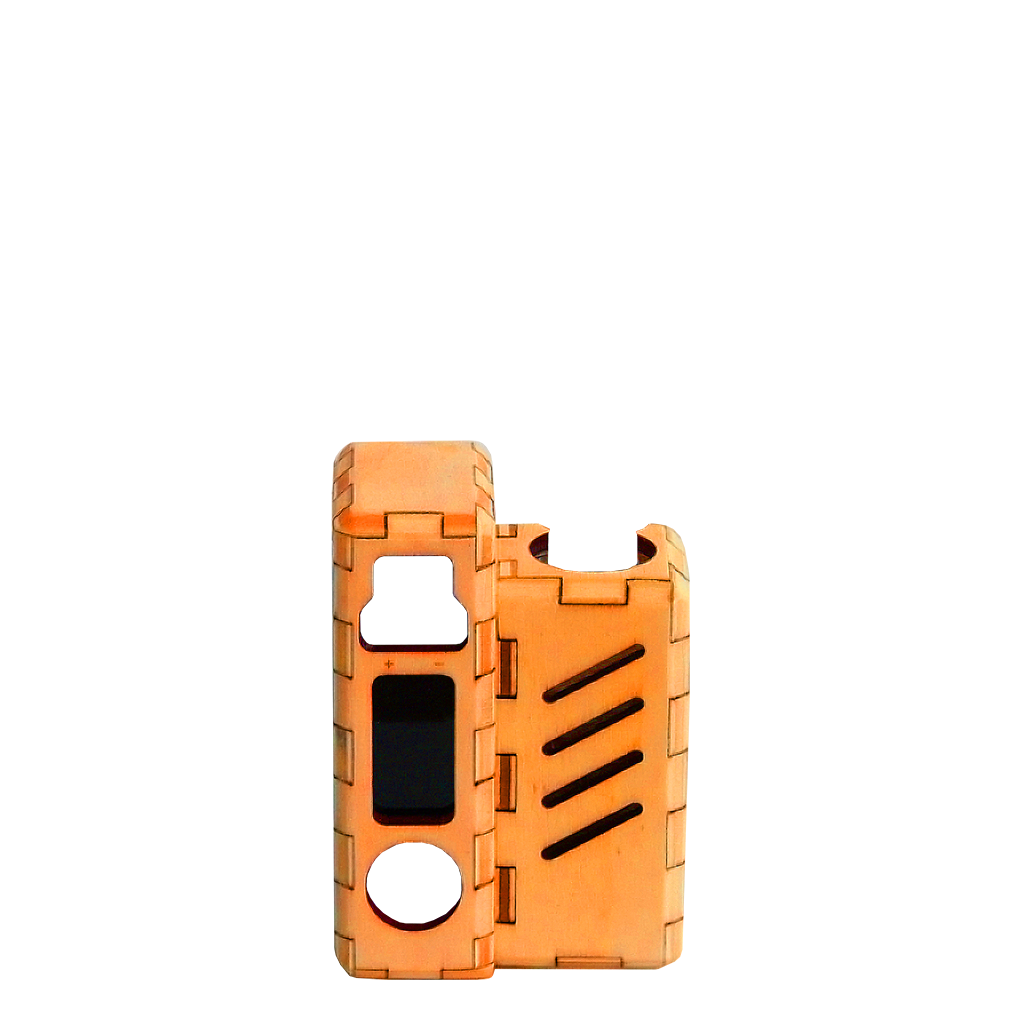
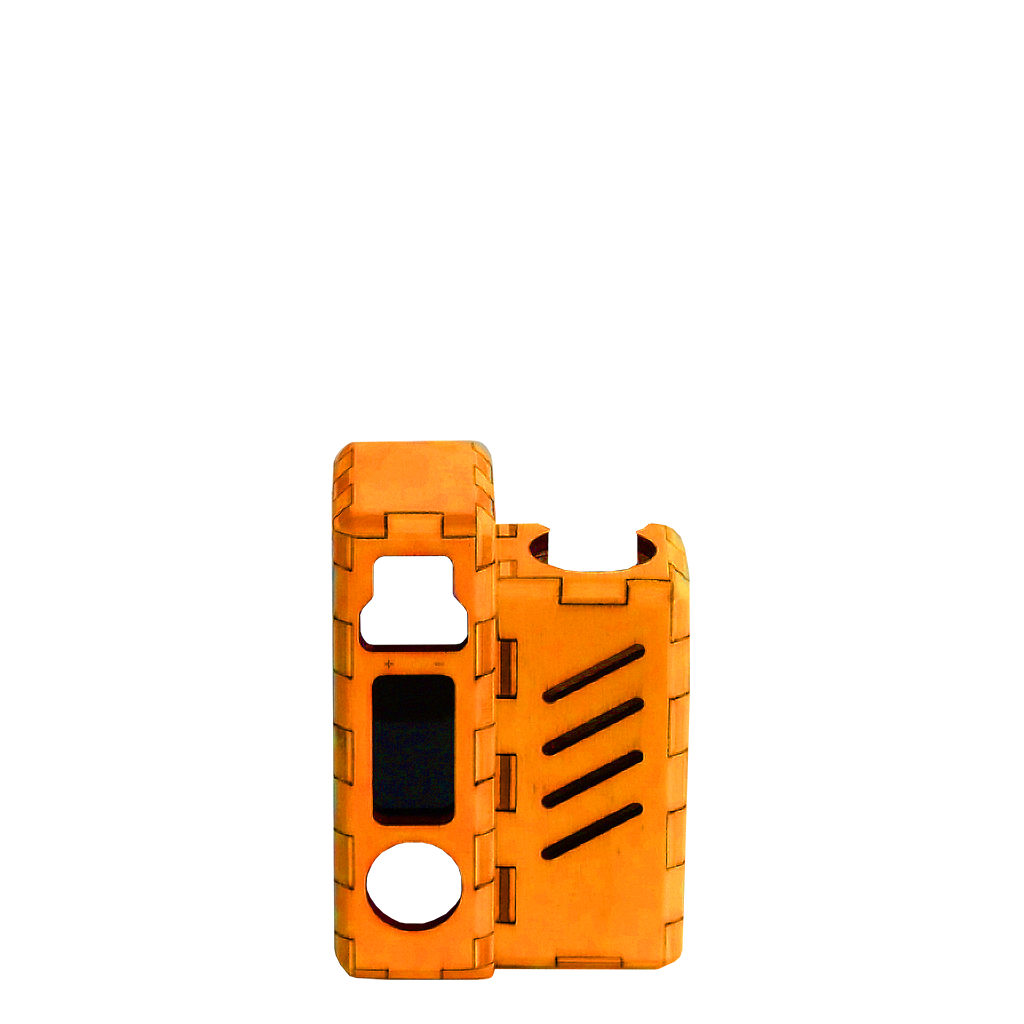
Refactored code and fixed wood type issue
- Refactored and cleaned code
- Fixed wood type issue
- Improved some images

Changed region(s): [[0.3125, 0.4062, 0.6875, 0.9688]]

diff --git a/script.js b/script.js
@@ -16,8 +16,8 @@ var woodColors =
     "None",
     "Sun Yellow",
     "Azo Orange",
-    "Permanent Cyan",
-    "Permanent Violet Blue",
+    "Primary Cyan",
+    "Permanent Blue Violet",
     "Permanent Green",
     "Marine Blue",
     "Sap Green",
@@ -52,7 +52,7 @@ function fillImageArray(imageArray) {
 function initImage(image, path) {
     image.onload = function() {
         loadedImageCount++;
-        if(loadedImageCount == totalImageCount) {
+        if (loadedImageCount == totalImageCount) {
             readyToDraw = true;
             generateResult();
         }
@@ -90,8 +90,8 @@ function loadResources() {
     woodColorImages[0] = woodTypeImages[0];
     initImage(woodColorImages[1], 'Images/Wood/SunYellow.png');
     initImage(woodColorImages[2], 'Images/Wood/AzoOrange.png');
-    initImage(woodColorImages[3], 'Images/Wood/PermanentCyan.png');
-    initImage(woodColorImages[4], 'Images/Wood/PermanentVioletBlue.png');
+    initImage(woodColorImages[3], 'Images/Wood/PrimaryCyan.png');
+    initImage(woodColorImages[4], 'Images/Wood/PermanentBlueViolet.png');
     initImage(woodColorImages[5], 'Images/Wood/PermanentGreen.png');
     initImage(woodColorImages[6], 'Images/Wood/MarineBlue.png');
     initImage(woodColorImages[7], 'Images/Wood/SapGreen.png');
@@ -101,6 +101,74 @@ function loadResources() {
     currentVapeImage = vapeColorImages[0];
     currentWoodImage = woodColorImages[0];
 }
+
+function updateStem(index) {
+    currentStemImage = stemTypeImages[index];
+    generateResult();
+}
+
+function updateWood(index) {
+    if (currentWoodImage === woodColorImages[0]) {
+        currentWoodImage = woodTypeImages[index];
+    }
+    
+    woodColorImages[0] = woodTypeImages[index];
+    generateResult();
+}
+
+function resizeCanvas() {
+    var canvas = document.getElementById('canvas');
+    canvas.width  = Math.min(window.innerHeight / 2, maxImageResolution);
+    canvas.height = Math.min(window.innerHeight / 2, maxImageResolution);
+    generateResult();
+}
+
+function isInt(value) {
+    return !isNaN(value) && parseInt(Number(value)) == value && !isNaN(parseInt(value, 10));
+}
+
+function checkRange(value, min, max) {
+    if (!isInt(value) || value < min || value > max) {
+        value = 0;
+    }
+    return value;
+}
+
+$(document).ready(function() {
+    window.addEventListener('resize', resizeCanvas);
+    resizeCanvas();
+
+    // Initialize text value from slider position
+    $('#vapeColorLabel').text(vapeColors[$('#vapeColorSlider').val()]);
+    $('#woodColorLabel').text(woodColors[$('#woodColorSlider').val()]);
+
+    // Add event handler to set text value when the sliders are dragged
+    $('#vapeColorSlider').on('input change', function () {
+        $('#vapeColorLabel').text(vapeColors[$(this).val()]);
+        currentVapeImage = vapeColorImages[$(this).val()];
+        generateResult();
+    });
+
+    $('#woodColorSlider').on('input change', function () {
+        $('#woodColorLabel').text(woodColors[$(this).val()]);
+        currentWoodImage = woodColorImages[$(this).val()];
+        generateResult();
+    });
+
+    // Set value of controls from URL parameters (if any)
+    var urlParams = new URLSearchParams(window.location.search);
+    var woodType = checkRange(urlParams.get('wood'), 0, 1);
+    var stemType = checkRange(urlParams.get('stem'), 0, 1);
+    var vapeColor = checkRange(urlParams.get('vcolor'), 0, 8);
+    var woodColor = checkRange(urlParams.get('wcolor'), 0, 8);
+    
+    $('#woodTypes').children().eq(woodType).prop('checked', true);
+    $('#stemTypes').children().eq(stemType).prop('checked', true);
+    $('#vapeColorSlider').val(vapeColor);
+    $('#woodColorSlider').val(woodColor);
+
+    loadResources();
+});
 
 function copyToClipboard(text) {
     var input = document.createElement('input');
@@ -121,80 +189,6 @@ function generateURL() {
     var parameters = "?wood=" + woodTypeIndex + "&stem=" + stemTypeIndex + "&vcolor=" + vapeColorIndex + "&wcolor=" + woodColorIndex;
     copyToClipboard(baseURL + parameters);
 }
-
-function updateStem(index) {
-    currentStemImage = stemTypeImages[index];
-    generateResult();
-}
-
-function updateWood(index) {
-    currentWoodImage = woodTypeImages[index];
-    woodColorImages[0] = currentWoodImage;
-    generateResult();
-}
-
-function resizeCanvas() {
-    var canvas = document.getElementById('canvas');
-    canvas.width  = Math.min(window.innerHeight / 2, maxImageResolution);
-    canvas.height = Math.min(window.innerHeight / 2, maxImageResolution);
-    generateResult();
-}
-
-function init(woodType, stemType, vapeColor, woodColor) {
-    $('#woodTypes').children().eq(woodType).prop("checked", true);
-    $('#stemTypes').children().eq(stemType).prop("checked", true);
-    $('#vapeColorSlider').val(vapeColor);
-    $('#woodColorSlider').val(woodColor);
-
-    $('#woodTypes').trigger('change');
-    $('#stemTypes').trigger('change');
-    $("#vapeColorSlider").trigger('change');
-    $("#woodColorSlider").trigger('change');
-}
-
-function isInt(value) {
-    return !isNaN(value) && parseInt(Number(value)) == value && !isNaN(parseInt(value, 10));
-}
-
-$(document).ready(function() {
-    resizeCanvas();
-    loadResources();
-
-    // Initialize text value from slider position
-    $('#vapeColorLabel').text(vapeColors[$('#vapeColorSlider').val()]);
-    $('#woodColorLabel').text(woodColors[$('#woodColorSlider').val()]);
-
-    // Event handler to set text value when the slider is dragged
-    $('#vapeColorSlider').on('input change', function () {
-        $('#vapeColorLabel').text(vapeColors[$(this).val()]);
-        currentVapeImage = vapeColorImages[$(this).val()];
-        generateResult();
-    });
-
-    $('#woodColorSlider').on('input change', function () {
-        $('#woodColorLabel').text(woodColors[$(this).val()]);
-        currentWoodImage = woodColorImages[$(this).val()];
-        generateResult();
-    });
-
-    window.addEventListener('resize', resizeCanvas);
-});
-
-function checkRange(value, min, max) {
-    if (!isInt(value) || value < min || value > max) {
-        value = 0;
-    }
-    return value;
-}
-
-$(window).on("load", function() {
-    var urlParams = new URLSearchParams(window.location.search);
-    var woodType = checkRange(urlParams.get('wood'), 0, 1);
-    var stemType = checkRange(urlParams.get('stem'), 0, 1);
-    var vapeColor = checkRange(urlParams.get('vcolor'), 0, 8);
-    var woodColor = checkRange(urlParams.get('wcolor'), 0, 8);
-    init(woodType, stemType, vapeColor, woodColor);
-});
 
 function downloadResult() {
     var canvas = document.getElementById('canvas');

diff --git a/styles.css b/styles.css
@@ -2,16 +2,14 @@
 *---------------- GLOBAL STYLES ----------------*
 ************************************************/
 
-html, body {
+html {
     font-family: 'Cambria';
     font-size: 2vh;
     text-align: center;
-    width: 100%;
-    margin: 0;
-    color: #E1E1E1;
 }
 
 body {
+    color: #E1E1E1;
     background: repeating-linear-gradient(
         45deg,
         #1E1E1E,
@@ -48,16 +46,12 @@ header p:first-child:before, header p:first-child:after {
 header div {
     font-size: 10vh;
     text-shadow: 2px 2px #B7BD9B;
+    color: #F5F5F5;
 }
 
 footer div {
     font-family: 'Open Sans Light';
     font-size: 1.5vh;
-}
-
-footer p {
-    display: inline-block;
-    opacity: 0.5;
 }
 
 footer button {
@@ -70,6 +64,11 @@ footer button {
     margin-top: 2vh;
     margin-bottom: 1vh;
     cursor: pointer;
+}
+
+footer p {
+    display: inline-block;
+    opacity: 0.5;
 }
 
 footer a {
@@ -139,7 +138,7 @@ input[type=radio] {
 }
 
 #woodColorSliderStyle {
-    /* In order: none, sun yellow, azo orange, permanent cyan, permanent violet blue, permanent green, marine blue, sap green, oxide black */
+    /* In order: none, sun yellow, azo orange, primary cyan, permanent blue violet, permanent green, marine blue, sap green, oxide black */
     background: linear-gradient(to right,
         #FFFFFF 00%, #FFFFFF 11%,
         #F6C93A 11%, #F6C93A 22%,
